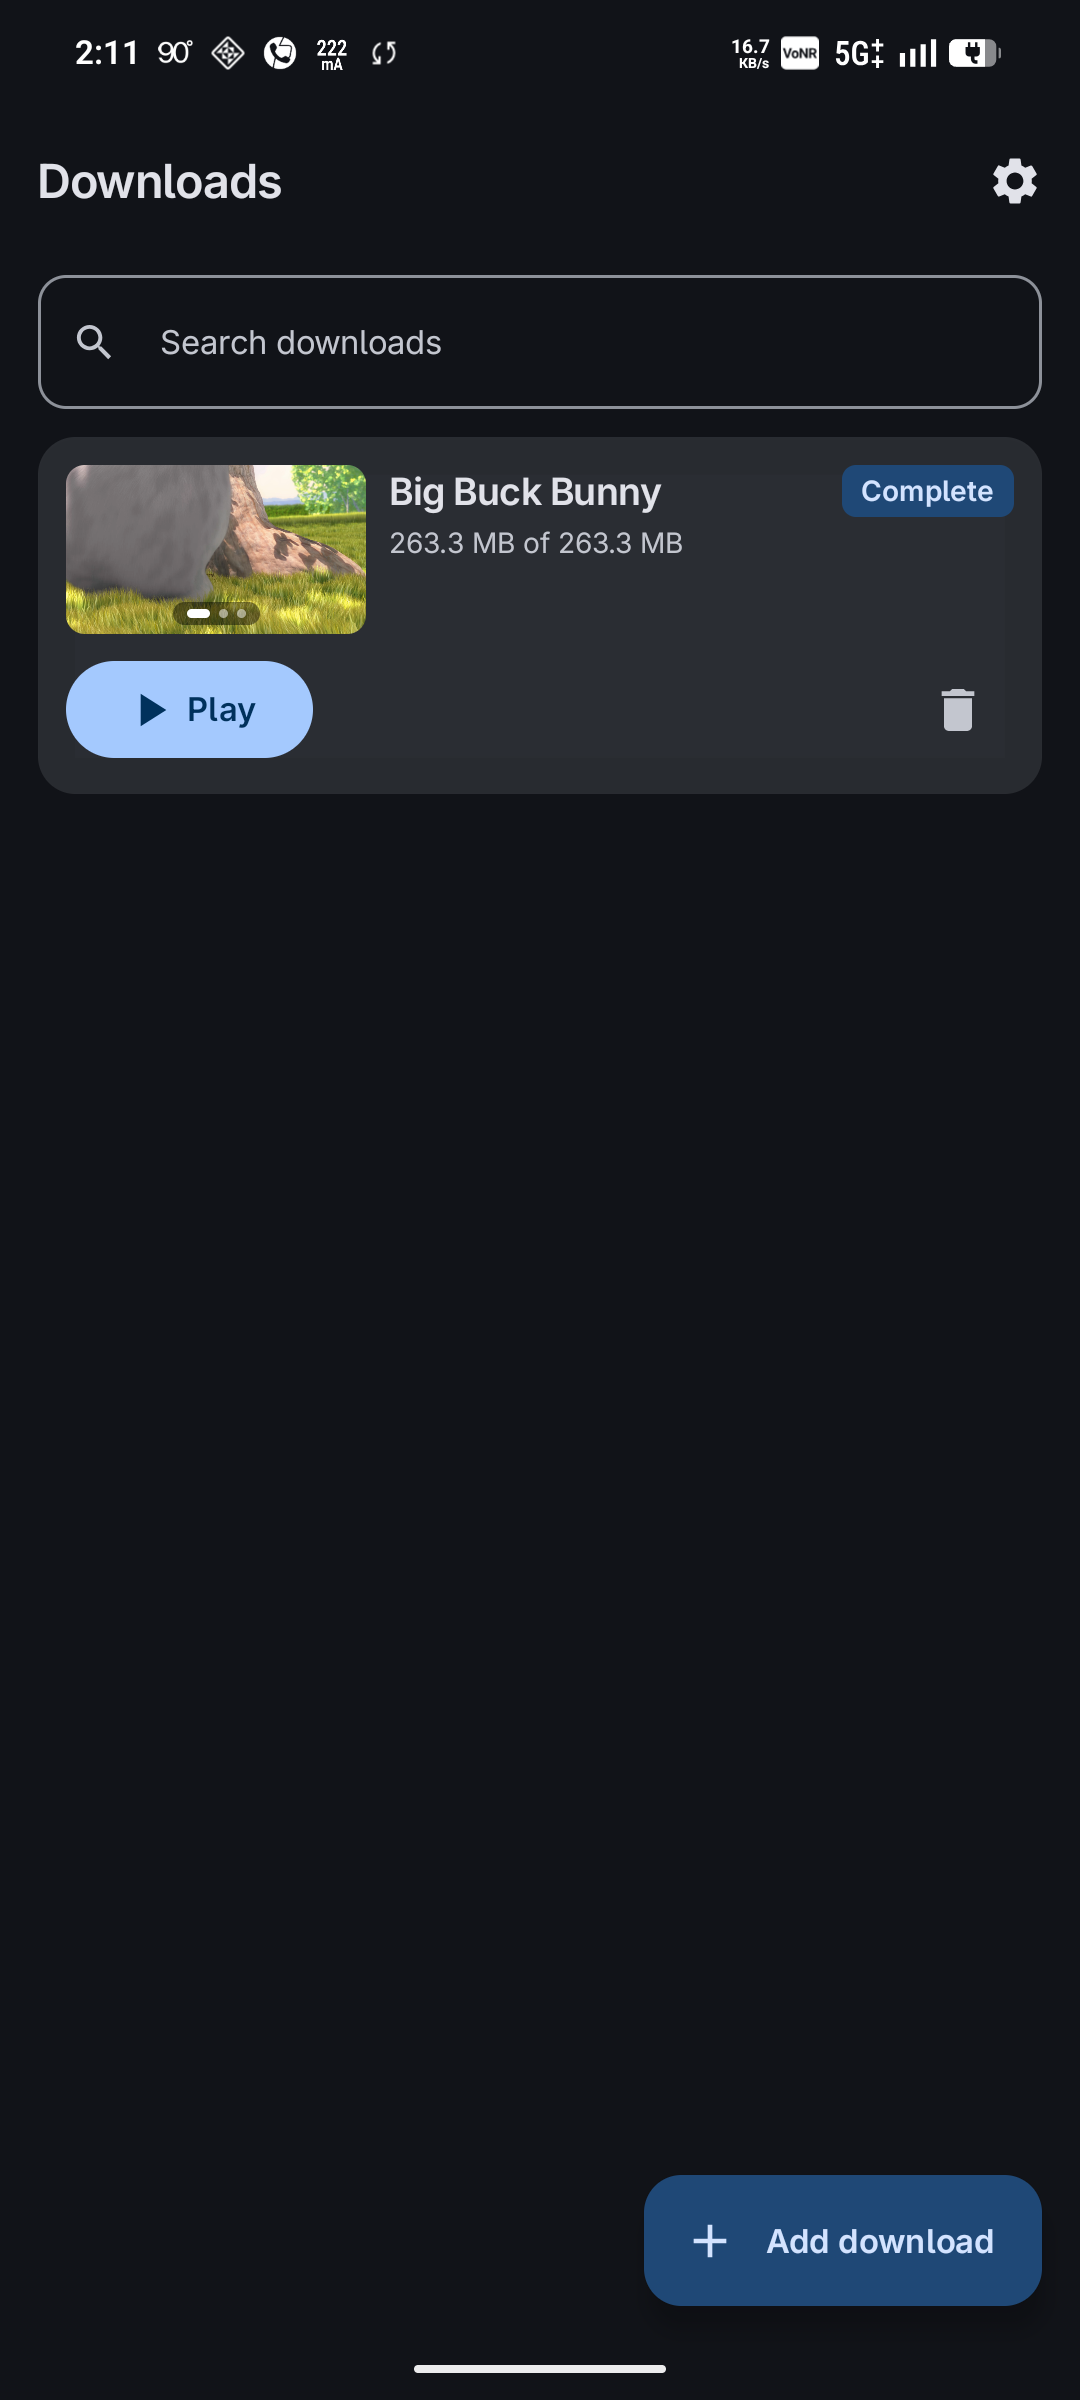
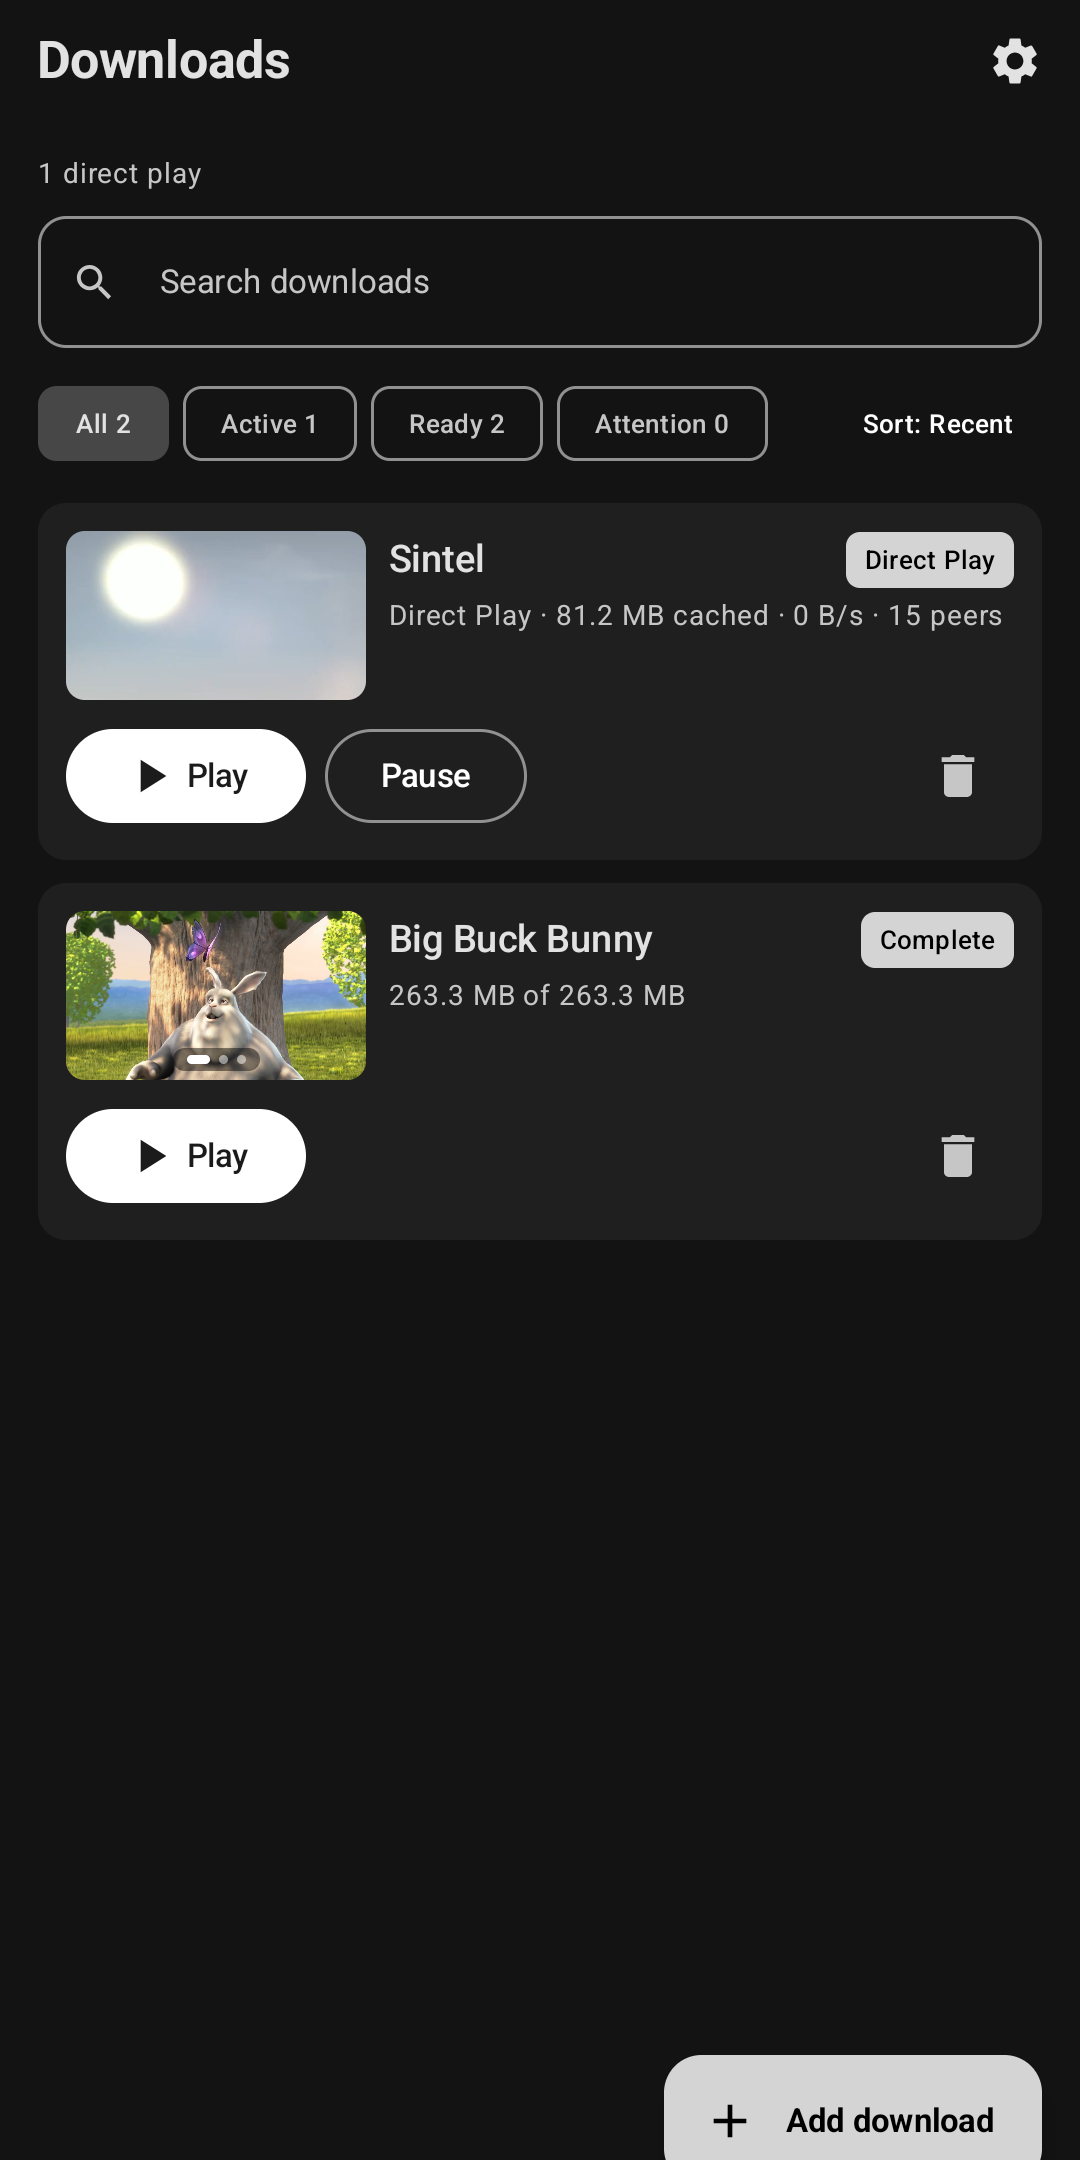
New screenshots: library, add sheet, swarm map, peers, playback settings
Taken on Android 16 with Big Buck Bunny and Sintel (Blender Foundation,
CC BY 3.0), cropped to 1080x2160 (2:1, as Google Play requires) as 24-bit
PNGs, with peer IP addresses hidden. Used by the README, F-Droid and the
Play listing; the old 2.0.0 screenshots are removed.

diff --git a/README.md b/README.md
@@ -21,12 +21,15 @@
 ## Screenshots
 
 <p align="center">
-  <img src="docs/images/library.png" width="31%" alt="Library & Video Previews" />&nbsp;
-  <img src="docs/images/add_sheet.png" width="31%" alt="Add Magnet & Select Files" />&nbsp;
-  <img src="docs/images/details.png" width="31%" alt="Details, Telemetry & Pieces" />
+  <img src="fastlane/metadata/android/en-US/images/phoneScreenshots/1.png" width="19%" alt="Library with video previews" />
+  <img src="fastlane/metadata/android/en-US/images/phoneScreenshots/2.png" width="19%" alt="Add a magnet and choose files" />
+  <img src="fastlane/metadata/android/en-US/images/phoneScreenshots/3.png" width="19%" alt="Live swarm world map and pieces" />
+  <img src="fastlane/metadata/android/en-US/images/phoneScreenshots/4.png" width="19%" alt="Connected peers by protocol" />
+  <img src="fastlane/metadata/android/en-US/images/phoneScreenshots/5.png" width="19%" alt="Experimental playback settings" />
 </p>
 <p align="center">
-  <sub><b>Left:</b> Library & Video Previews &nbsp;|&nbsp; <b>Center:</b> Add Magnet & File Selection &nbsp;|&nbsp; <b>Right:</b> Details, Swarm Telemetry & Pieces</sub>
+  <sub>Library and previews · Add a torrent · Swarm map and pieces · Peers · Playback settings<br>
+  Shown with <i>Big Buck Bunny</i> and <i>Sintel</i> (&copy; Blender Foundation, CC BY 3.0). Peer IP addresses are hidden.</sub>
 </p>
 
 ---
